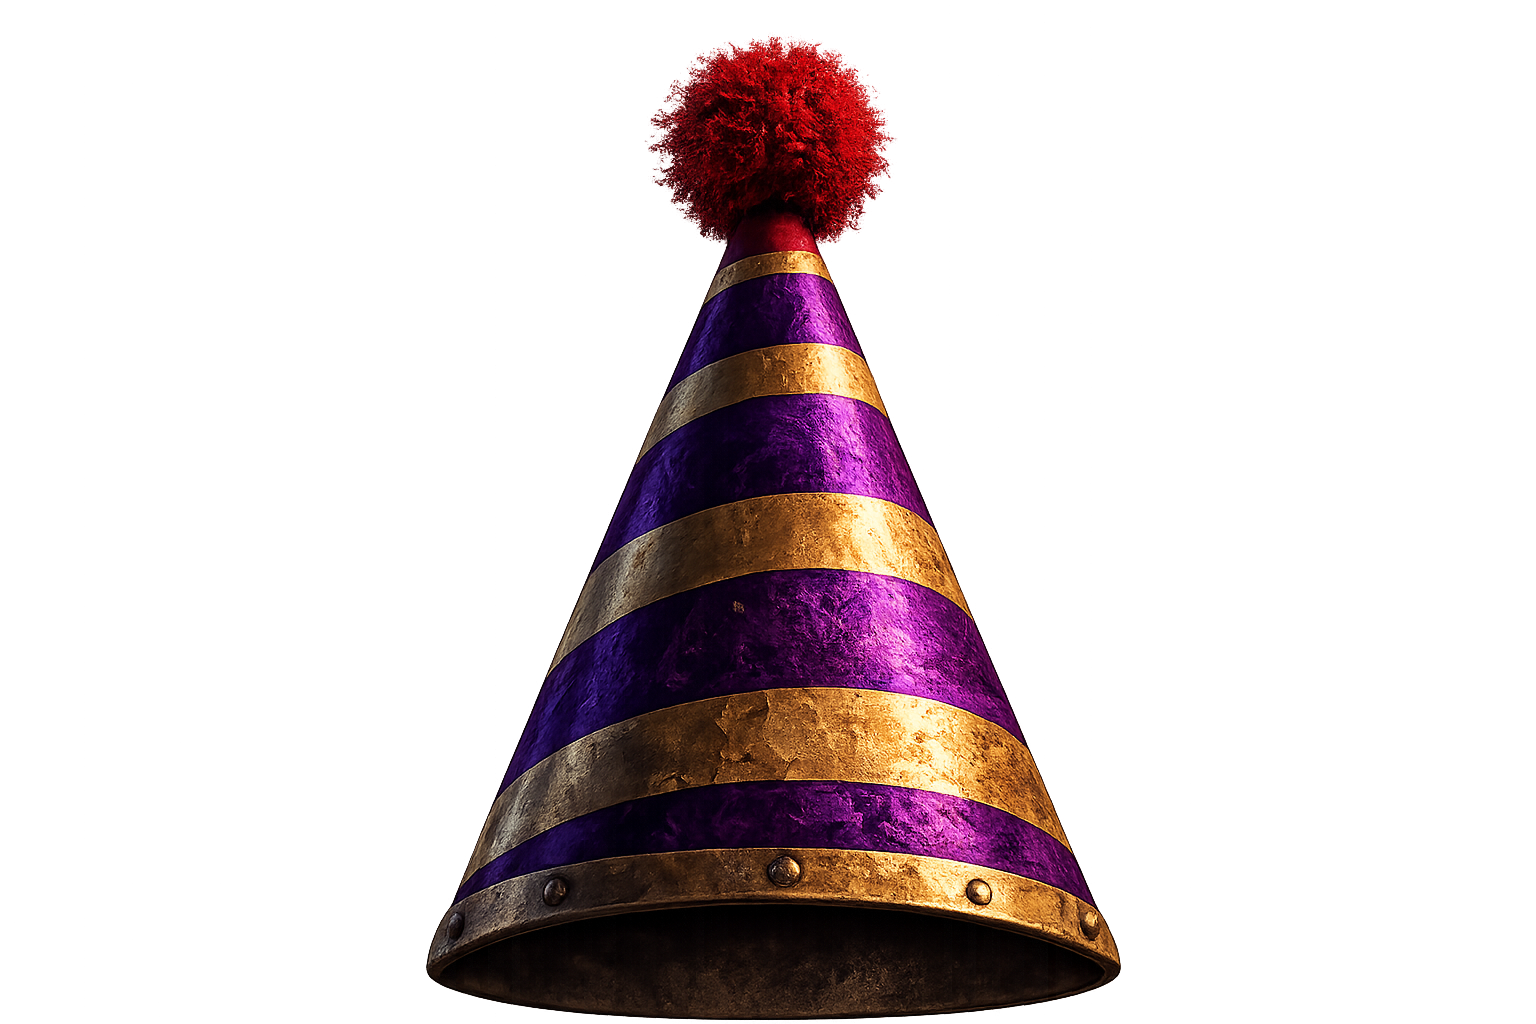
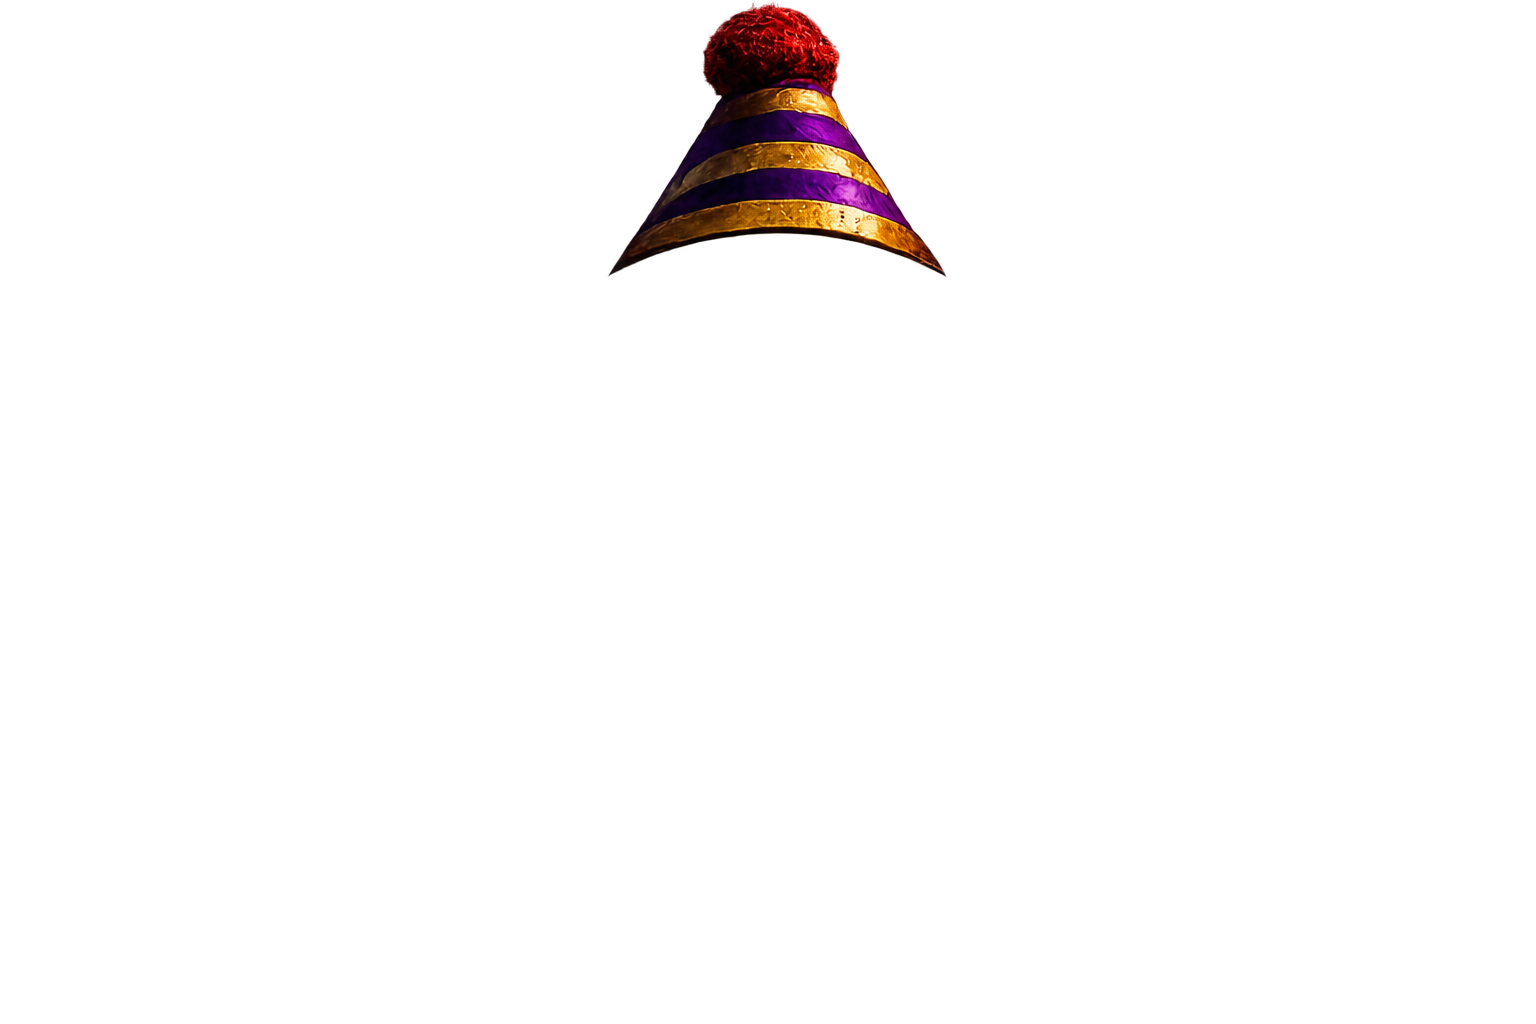
Revert broken part overlays; restore normal PIERO display
The per-part scale/left/top overlay approach (hat/mouth/pupils) broke on
mobile. Remove those overlays and the parts controller so the PIERO renders
normally again (base image), keeping:
- Part 1 OPENING unchanged
- eyes-closed blink (same-canvas, aligned) and recurring blink
- mobile-safe discovery previews (labels/glows/confetti/fog/ripple/rail/DDO)

Also stage the newly provided same-canvas assets (piero-no-hat / piero-hat /
piero-mouth / piero-mouth-smile) for the next integration step; not yet wired.

Claude-Session: https://claude.ai/code/session_01Qax2LKF8fpRuzW6cPbtm5q

Changed region(s): [[0.2812, 0.0, 0.75, 1.0]]

diff --git a/src/scenes/chapter1/discovery.ts b/src/scenes/chapter1/discovery.ts
@@ -12,7 +12,6 @@ import gsap from "gsap";
 import type { StageRefs } from "./stage";
 import type { Area } from "./config";
 import { playBlink } from "./blink";
-import { setupParts } from "./parts";
 
 const AREAS: Area[] = ["thrill", "joy", "odd", "mystery"];
 
@@ -27,24 +26,12 @@ export function startDiscovery(refs: StageRefs, reduced: boolean): () => void {
   let blinking = false;
   const timers: number[] = [];
 
-  const parts = setupParts(refs, reduced);
-
   refs.stage.classList.add("p2-ready"); // ホットスポットを有効化
 
-  // --- SCENE 08 CURSOR REACTION: 瞳だけがカーソルに少し遅れて反応 ---
-  let lastNx = 0;
-  let lastNy = 0;
-  let suspendTrackUntil = 0;
-  const onPointerMove = (e: PointerEvent): void => {
-    const r = refs.stage.getBoundingClientRect();
-    lastNx = Math.max(-1, Math.min(1, ((e.clientX - r.left) / r.width - 0.5) * 2));
-    lastNy = Math.max(-1, Math.min(1, ((e.clientY - r.top) / r.height - 0.5) * 2));
-    if (performance.now() >= suspendTrackUntil) parts.pupilTrack(lastNx, lastNy);
-  };
-  if (!coarse && !reduced) {
-    window.addEventListener("pointermove", onPointerMove, { passive: true });
-    cleanups.push(() => window.removeEventListener("pointermove", onPointerMove));
-  }
+  // NOTE: 帽子/口/瞳の実パーツ overlay は座標系不一致でスマホ崩れが出たため無効化。
+  //       素材を「元PIEROと同一キャンバス・同一座標」の透過PNGで作り直したのち、
+  //       inset:0 / width:100% / height:100% の完全一致 overlay として再導入する。
+  //       ここでは予告演出（ラベル/照明/紙吹雪/霧/歪み/レール）と瞬きのみを行う。
 
   // --- 周期的な瞬き（数秒〜十数秒に一度） ---
   const doBlink = (): void => {
@@ -64,9 +51,14 @@ export function startDiscovery(refs: StageRefs, reduced: boolean): () => void {
   if (!reduced) scheduleBlink();
 
   // --- 最初のヒント（5〜6秒、何も発見されなければ） ---
-  // 帽子が「フワッ」と一度だけ僅かに浮いて戻る（本物の帽子パーツ）。
+  // 帽子パーツは無効化中のため、帽子付近の淡い明滅で「そこに何かある」を示す。
   let hintTimer = window.setTimeout(() => {
-    if (visited.size === 0) parts.hatHint();
+    if (visited.size === 0 && !reduced) {
+      gsap
+        .timeline()
+        .to(p2.glows.thrill, { opacity: 0.5, duration: 0.5, ease: "power2.out" })
+        .to(p2.glows.thrill, { opacity: 0, duration: 0.9, ease: "power2.in" }, "+=0.15");
+    }
   }, 5500);
   timers.push(hintTimer);
 
@@ -182,35 +174,20 @@ export function startDiscovery(refs: StageRefs, reduced: boolean): () => void {
     gsap.to(p2.fog, { opacity: 0, duration: 0.9, ease: "power1.out" });
   };
 
-  // --- エリアの予告 ON / OFF（実パーツの反応を含む） ---
+  // --- エリアの予告 ON / OFF（パーツ無効化中＝照明・粒子・文字のみ） ---
   const activate = (area: Area): void => {
     markVisited(area);
     showLabel(area);
     showGlow(area);
-    if (area === "thrill") {
-      parts.liftHat(12); // ヒントより少し大きく浮かせる
-      railStreak();
-    }
+    if (area === "thrill") railStreak();
     if (area === "joy") confettiBurst();
-    if (area === "odd") {
-      // 右目: 一瞬だけ逆を見てから本来の方向へ戻す
-      suspendTrackUntil = performance.now() + 780;
-      parts.pupilReverseThenCorrect("r", lastNx, lastNy);
-      oddRipple();
-    }
-    if (area === "mystery") {
-      parts.mouthSmile(true); // 口が少しだけ広がる
-      fogIn();
-    }
+    if (area === "odd") oddRipple();
+    if (area === "mystery") fogIn();
   };
   const deactivate = (area: Area): void => {
     hideLabel(area);
     hideGlow(area);
-    if (area === "thrill") parts.settleHat();
-    if (area === "mystery") {
-      parts.mouthSmile(false);
-      fogOut();
-    }
+    if (area === "mystery") fogOut();
   };
 
   // --- 4つすべてを触った後: CHOOSE が一度だけ微かに光り、PIERO が一度瞬き ---
@@ -273,7 +250,6 @@ export function startDiscovery(refs: StageRefs, reduced: boolean): () => void {
   return () => {
     timers.forEach((t) => clearTimeout(t));
     cleanups.forEach((c) => c());
-    parts.destroy();
     refs.stage.classList.remove("p2-ready");
     AREAS.forEach((area) => gsap.killTweensOf([p2.labels[area], p2.glows[area]]));
     gsap.killTweensOf([p2.fog, p2.ripple, p2.rail]);

diff --git a/src/scenes/chapter1/stage.ts b/src/scenes/chapter1/stage.ts
@@ -18,13 +18,6 @@ export interface StageRefs {
   piero: HTMLElement;
   pieroImg: HTMLImageElement;
   pieroBlink: HTMLImageElement;
-  parts: {
-    hat: HTMLElement;
-    mouthNormal: HTMLElement;
-    mouthSmile: HTMLElement;
-    pupilL: HTMLElement;
-    pupilR: HTMLElement;
-  };
   eyes: { left: HTMLElement; right: HTMLElement };
   titleLines: HTMLElement[];
   choose: HTMLElement;
@@ -85,16 +78,11 @@ export function buildStage(root: HTMLElement): StageRefs {
     <!-- 主役レイヤー: PIERO (piero.png, 透過)。将来: 帽子/髪/顔/鼻/瞳/口を個別パーツ化 -->
     <div class="piero">
       <img class="piero-img" src="${assetUrl("piero.png")}" alt="PIERO" draggable="false" />
-      <!-- 口パーツ: 通常/笑顔。目の領域外は通常PIEROのまま（顔全体は差し替えない）。 -->
-      <img class="p-part p-mouth p-mouth--normal" src="${assetUrl("piero-mouth.png")}" alt="" draggable="false" />
-      <img class="p-part p-mouth p-mouth--smile" src="${assetUrl("piero-mouth-smile.png")}" alt="" draggable="false" />
-      <!-- 瞳パーツ（虹彩＋黒目のみ）: 白目・顔は動かさず、これだけを数px動かす。 -->
-      <div class="p-pupil p-pupil--l" data-part="pupil-left"></div>
-      <div class="p-pupil p-pupil--r" data-part="pupil-right"></div>
-      <!-- 瞬き用: 目を閉じたPIERO（瞳の上に重ね、瞬き時に瞳を覆う）。 -->
+      <!-- 瞬き用: 目を閉じたPIERO（元PIEROと同一キャンバス・同一座標の透過PNG。
+           inset:0 / 100% で完全一致するため、これは維持）。 -->
       <img class="piero-img piero-blink" src="${assetUrl("piero-eyes-closed.png")}" alt="" draggable="false" />
-      <!-- 帽子パーツ: ヒント/ホバーで僅かに浮く。 -->
-      <img class="p-part p-hat" src="${assetUrl("piero-hat.png")}" alt="" draggable="false" />
+      <!-- 帽子/口/瞳の実パーツ overlay は座標系不一致でスマホ崩れが出たため撤去。
+           元PIEROと同一キャンバス・同一座標の素材が揃い次第、完全一致 overlay として再導入する。 -->
       <div class="piero__parts" aria-hidden="true">
         <div class="p-eye p-eye--l" data-part="pupil-left"></div>
         <div class="p-eye p-eye--r" data-part="pupil-right"></div>
@@ -164,13 +152,6 @@ export function buildStage(root: HTMLElement): StageRefs {
     piero: q<HTMLElement>(".piero"),
     pieroImg: q<HTMLImageElement>(".piero-img:not(.piero-blink)"),
     pieroBlink: q<HTMLImageElement>(".piero-blink"),
-    parts: {
-      hat: q<HTMLElement>(".p-hat"),
-      mouthNormal: q<HTMLElement>(".p-mouth--normal"),
-      mouthSmile: q<HTMLElement>(".p-mouth--smile"),
-      pupilL: q<HTMLElement>(".p-pupil--l"),
-      pupilR: q<HTMLElement>(".p-pupil--r"),
-    },
     eyes: { left: q<HTMLElement>(".p-eye--l"), right: q<HTMLElement>(".p-eye--r") },
     titleLines: Array.from(root.querySelectorAll(".ttl__line")) as HTMLElement[],
     choose: q<HTMLElement>(".choose"),

diff --git a/src/styles/chapter1.css b/src/styles/chapter1.css
@@ -172,55 +172,6 @@
     radial-gradient(circle at 56% 68%, rgba(120, 240, 255, 0.28) 0%, transparent 46%);
 }
 
-/* Part 2 実パーツ overlay（.piero 内 = 顔に追従。配置は GSAP の transform で行う） */
-.p-part {
-  position: absolute;
-  inset: 0;
-  width: 100%;
-  height: 100%;
-  object-fit: contain;
-  object-position: center;
-  pointer-events: none;
-  will-change: transform, opacity;
-}
-/* 口: パーツ周囲の肌は隠し、口元だけを重ねる（顔全体は差し替えない） */
-.p-mouth {
-  -webkit-mask-image: radial-gradient(ellipse 40% 32% at 51% 64%, #000 75%, rgba(0, 0, 0, 0) 100%);
-  mask-image: radial-gradient(ellipse 40% 32% at 51% 64%, #000 75%, rgba(0, 0, 0, 0) 100%);
-  -webkit-mask-repeat: no-repeat;
-  mask-repeat: no-repeat;
-}
-.p-mouth--smile {
-  opacity: 0;
-}
-/* 帽子: 浮いたときの継ぎ目を目立たせないよう下端を僅かにフェード */
-.p-hat {
-  -webkit-mask-image: linear-gradient(to bottom, #000 90%, rgba(0, 0, 0, 0) 99%);
-  mask-image: linear-gradient(to bottom, #000 90%, rgba(0, 0, 0, 0) 99%);
-  -webkit-mask-repeat: no-repeat;
-  mask-repeat: no-repeat;
-}
-/* 瞳（虹彩＋黒目のみ）。背景画像は JS で設定（base URL 対応） */
-.p-pupil {
-  position: absolute;
-  width: 3.4%;
-  aspect-ratio: 1 / 1;
-  border-radius: 50%;
-  background-position: center;
-  background-size: cover;
-  background-repeat: no-repeat;
-  pointer-events: none;
-  will-change: transform;
-}
-.p-pupil--l {
-  left: 42.51%;
-  top: 50.63%;
-}
-.p-pupil--r {
-  left: 57.19%;
-  top: 50.49%;
-}
-
 /* エッジを落として中央(PIERO)へ視線を集める */
 .vignette {
   background: radial-gradient(
